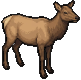
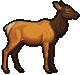
Gemini 的馬鹿母鹿 4 個姿勢接進戰術狩獵
Claude-Session: https://claude.ai/code/session_01HkqM82v9towmCBuEomSQC3

diff --git a/prototypes/hd2d_tactical/prep_gemini_prey.py b/prototypes/hd2d_tactical/prep_gemini_prey.py
@@ -7,6 +7,7 @@
 - 騾鹿公鹿 mule_deer_buck_*：同母鹿（警覺那張是正面看著你）；吃草那張是重畫的乾淨版（第一版有草與浮著的頭，remove_grass 清得掉，留著備用）
 - 騾鹿幼鹿 mule_deer_fawn_*：站寬 0.9 格
 - 北美馴鹿母鹿 caribou_cow_*：站寬 1.35 格（角細短，比公鹿小）；警覺那張頭只抬高一點（之後可以重出）
+- 馬鹿母鹿 elk_cow_*：站寬 1.6 格（取代風格測試的單張 hd_elk_cow）
 - 馬鹿幼鹿 elk_calf_*：站寬 1.15 格（「站」那張是邁步的樣子，縮小後自然）
 - 駝鹿幼鹿 moose_calf_*：站寬 1.2 格（紅褐色、腿細長、沒有角）
 - 北美馴鹿幼鹿 caribou_calf_*：站寬 0.95 格（紅褐色、沒有白點、沒有角）
@@ -34,6 +35,7 @@ ANIMALS = {
     "caribou_calf": (0.95, ["stand", "alert", "run", "graze"]),
     "moose_calf": (1.2, ["stand", "alert", "run", "graze"]),
     "elk_calf": (1.15, ["stand", "alert", "run", "graze"]),
+    "elk_cow": (1.6, ["stand", "alert", "run", "graze"]),
 }
 # 特別處理的姿勢（動物_姿勢 → 設定）：file 來源檔、crop 先裁（像素，左上右下）、flip 水平翻轉（面向左的）、
 # cells 直接指定寬幾格（同一張裡畫的大小不同、或畫布不是 1024 時，照身體長度目測）、match 顏色照站那張的色盤（prep_wolf.match_palette）

diff --git a/docs/progress.md b/docs/progress.md
@@ -7,7 +7,7 @@
 （2026-11-06）美洲獅的 Gemini 圖接進戰鬥畫面：`prototypes/hd2d_tactical/prep_cougar.py`（2×2 合在一張的切成四格；灰白棋盤格背景：灌水＋被身體包住的棋盤格空隙〔同時有亮白與淺灰〕＋只露白格的小縫〔幾乎全白、四周多是黑色輪廓線〕也挖掉；綠色棋盤格用色鍵）：站、走路兩格、伏低（灰底那張）、低頭吃（綠底那張）、撲擊（單張），寬 1.8 格（撲擊 2.1）。姿勢：預告是撲擊 → 伏低，揮掌或咬 → 撲擊的圖。伏低那張尾巴和後腳之間還留一點白，之後有新圖再換。
 （2026-11-06）灰熊改用 Gemini 第二輪的綠底 4 張（使用者：免費額度用完，直接套用、能改的直接改）：`prototypes/hd2d_tactical/prep_grizzly.py`（綠幕去背＋去綠色溢色、只留最大的一塊；粉紅鼻子換成深黑褐色〔揮掌那張的鼻子範圍另外設〕；整批乘同一組 RGB 倍率〔0.86, 0.855, 0.975〕讓毛色接近第一輪第 4 張；低頭吃沿用第一輪第 5 張、調到同樣的毛色；縮成 32／48，走路、站寬 2.3 格，揮掌 2.45 格、低頭吃 2.0 格）。戰鬥畫面的姿勢：沒動 stand、上一回合有移動 walk／walk_b 輪流、在吃 eat、預告看起來是揮掌或咬 swipe。來源圖在 `arts/hd2d_2026-11-06/`（r2_*、r1_*）。
 （2026-11-06）灰熊的 Gemini 圖先接進戰鬥畫面（使用者要求先看效果）：第 4 張走路、第 5 張低頭吃、第 9 張揮掌（去棋盤格背景、只留最大的一塊〔去掉揮動線〕、縮成 32／48：走路與吃寬 74／110、揮掌 87／130），原圖去背後在 `arts/hd2d_2026-11-06/`；`combat_hd2d.json` 的 `hd2d_poses`：在吃 eat、預告看起來是揮掌或咬 swipe（看 looks，不洩漏假動作）、其他 walk。正式版等 Gemini 照回饋整套重畫（`docs/art-request-hd2d-2026-11-06.md`）。
-（2026-11-06）Gemini 的騾鹿母鹿 4 個姿勢（站、警覺抬頭、跑、低頭吃草，`arts/gemini_prey_2026-11-06/`；`prototypes/hd2d_tactical/prep_gemini_prey.py`：綠底去背、照站那張的畫布比例換算其他姿勢、站寬 1.4 格〔和白尾鹿差不多高、壯一點〕）→ `hd_mule_deer_doe*`，戰術狩獵依狀態換圖（同白尾鹿）。騾鹿公鹿 4 個姿勢（站、正面看著你〔警覺〕、跑、低頭吃草）→ `hd_mule_deer_buck*`；吃草那張 Gemini 多畫了一顆浮著的鹿頭和一叢草：浮著的頭靠「只留最大的一塊」去掉，草用 `remove_grass`（偏綠的去掉、草葉的輪廓線去掉、形態學 opening 去掉細線、小碎塊去掉、被草蓋住的短空隙補起來；縮到遊戲大小後前腳少了蹄子看不出來）。戰術狩獵的公鹿通用 `<物種>_buck`（白尾鹿、騾鹿）。騾鹿幼鹿 4 個姿勢（站、抬頭、跑、吃草，站寬 0.9 格）→ `hd_mule_deer_fawn*`（戰術物種 `mule_deer_calf`）；公鹿吃草換成重畫的乾淨版（第一版留在 `mule_deer_buck_graze_v1_grass.jpg`，`remove_grass` 留著備用）。騾鹿三種都齊了。北美馴鹿 4 個姿勢（`hd_caribou*`；站寬 1.55 格含角）：Gemini 把「正面看著你」「跑」和一副浮著的鹿角畫在同一張 → 分別裁出來（`SPECIAL` 的 crop），吃草那張面向左、1408×768、偏紅褐 → 翻轉、照站那張調色；這幾張畫的大小不同，寬度照身體長度目測指定（警覺 1.45、跑 1.9、吃草 1.95 格）。馴鹿母鹿（站、警覺、跑、低頭吃草；`hd_caribou_cow*`，站寬 1.35 格；警覺那張頭只抬高一點，之後可以重出）：鹿群的成鹿每 3 隻有 2 隻用母鹿的圖（`hd_art.caribou.mixed`，照單位序號；只有畫面）。馴鹿幼鹿 4 個姿勢（站、回頭看、跑、吃草；`hd_caribou_calf*`，站寬 0.95 格，戰術物種 `caribou_calf`）。馬鹿幼鹿 4 個姿勢（`hd_elk_calf*`，1.15 格；取代原本母鹿縮小的版本）。駝鹿幼鹿 4 個姿勢（站、警覺、跑、吃草；`hd_moose_calf*`，1.2 格）。出圖流程（2026-11-07 使用者回饋）：先由 Claude Code 寫好外觀與姿勢的描述，使用者把標題和描述一起轉給 Gemini、一次一張，準確很多。
+（2026-11-06）Gemini 的騾鹿母鹿 4 個姿勢（站、警覺抬頭、跑、低頭吃草，`arts/gemini_prey_2026-11-06/`；`prototypes/hd2d_tactical/prep_gemini_prey.py`：綠底去背、照站那張的畫布比例換算其他姿勢、站寬 1.4 格〔和白尾鹿差不多高、壯一點〕）→ `hd_mule_deer_doe*`，戰術狩獵依狀態換圖（同白尾鹿）。騾鹿公鹿 4 個姿勢（站、正面看著你〔警覺〕、跑、低頭吃草）→ `hd_mule_deer_buck*`；吃草那張 Gemini 多畫了一顆浮著的鹿頭和一叢草：浮著的頭靠「只留最大的一塊」去掉，草用 `remove_grass`（偏綠的去掉、草葉的輪廓線去掉、形態學 opening 去掉細線、小碎塊去掉、被草蓋住的短空隙補起來；縮到遊戲大小後前腳少了蹄子看不出來）。戰術狩獵的公鹿通用 `<物種>_buck`（白尾鹿、騾鹿）。騾鹿幼鹿 4 個姿勢（站、抬頭、跑、吃草，站寬 0.9 格）→ `hd_mule_deer_fawn*`（戰術物種 `mule_deer_calf`）；公鹿吃草換成重畫的乾淨版（第一版留在 `mule_deer_buck_graze_v1_grass.jpg`，`remove_grass` 留著備用）。騾鹿三種都齊了。北美馴鹿 4 個姿勢（`hd_caribou*`；站寬 1.55 格含角）：Gemini 把「正面看著你」「跑」和一副浮著的鹿角畫在同一張 → 分別裁出來（`SPECIAL` 的 crop），吃草那張面向左、1408×768、偏紅褐 → 翻轉、照站那張調色；這幾張畫的大小不同，寬度照身體長度目測指定（警覺 1.45、跑 1.9、吃草 1.95 格）。馴鹿母鹿（站、警覺、跑、低頭吃草；`hd_caribou_cow*`，站寬 1.35 格；警覺那張頭只抬高一點，之後可以重出）：鹿群的成鹿每 3 隻有 2 隻用母鹿的圖（`hd_art.caribou.mixed`，照單位序號；只有畫面）。馴鹿幼鹿 4 個姿勢（站、回頭看、跑、吃草；`hd_caribou_calf*`，站寬 0.95 格，戰術物種 `caribou_calf`）。馬鹿母鹿 4 個姿勢（`hd_elk_cow*`，1.6 格；取代風格測試的單張，第一次出的有白點像幼鹿，開新對話加「成年、沒有白點」重出）。馬鹿幼鹿 4 個姿勢（`hd_elk_calf*`，1.15 格；取代原本母鹿縮小的版本）。駝鹿幼鹿 4 個姿勢（站、警覺、跑、吃草；`hd_moose_calf*`，1.2 格）。出圖流程（2026-11-07 使用者回饋）：先由 Claude Code 寫好外觀與姿勢的描述，使用者把標題和描述一起轉給 Gemini、一次一張，準確很多。
 （2026-11-06）PixelLab 出圖（使用者試用，`arts/pixellab_2026-11-06/`，每張 2×2 四個版本；`prototypes/hd2d_tactical/prep_pixellab.py`）：灰狼走路的另一步取左上（寬高比最接近第二輪的走路，照高度對齊）→ `hdwolf_walk_b`，移動時和走路輪流（原本和站輪流）；馬鹿殘骸左上 → `hd_carcass_elk`（1.6 格）、右下縮小 → `hd_carcass_deer`（1.2 格，白尾鹿、騾鹿共用），`combat_hd2d.json` 的 `carcass.hd`。白尾鹿：雄鹿（4 個版本取右上）、母鹿 4 個姿勢（站、走、低頭吃草、警覺回頭）→ `hd_deer_*`；PixelLab 畫得腿長脖子高、顏色鮮豔，縮成 1.1／1.2 格（約馬鹿的 0.85 高）、飽和度 × 0.8。戰術狩獵依每隻鹿的狀態換圖（`hunt_hd2d.json` 的 `hd_art` 加 unaware／suspicious／stand／flee）：沒發現你低頭吃草、警覺或站定抬頭回看、逃跑走路；主遊戲的白尾鹿雄鹿用雄鹿的圖（`ctx.life_stage` → `game_mods.life_stage`，只給畫面用）。
 （2026-11-06）戰術狩獵的獵物補上 HD-2D 圖（使用者：沒有出圖額度，看舊素材能不能補）：沿用 2026-10-13 風格測試留下的高解析度原圖（`prototypes/hd2d_tactical/prep_prey.py` → `assets/hd_*`）：馬鹿母鹿、公鹿（`art_scene_test` 的像素風）、小馬鹿（母鹿縮小到 1.1 格）、雪兔夏毛、冬毛與幼兔（`art_illustrated_test` 的插畫風；野兔暫時共用夏毛）。`hunt_hd2d.json` 的 `hd_art`（物種鍵 → 圖名、冬季的圖），`HuntHD2D._art_for` 有就用。其他獵物（白尾鹿、騾鹿、馴鹿、野牛……）和殘骸沒有可用的舊原圖，照舊用佔位圖。
 （2026-11-06）灰狼的 Gemini 圖接進戰鬥與戰術狩獵畫面（使用者提供兩輪共 12 張，`arts/hd2d_2026-11-06/wolf_r1_*`、`wolf_r2_*`；`prototypes/hd2d_tactical/prep_wolf.py` → `assets/hdwolf_*`）：第二輪（淺灰、黑框粗）當基準：走路、示弱（耳朵壓平、尾巴下垂；使用者說明第 2 張是示弱）、倒地、示威、潛行、撤退（尾巴夾住）、帶傷、準備撲；第一輪補站、撲咬、叼肉（2026-11-06 改成照亮度的排名對應到第二輪走路那張的顏色、肉保留原色；原本整張乘倍率會偏褐藍、肉偏粉）。縮小後補 1 像素深色外框（原圖細黑框縮小會不見），走路寬 1.35 格。`combat_hd2d.json` 的 `wolf_poses`、`CombatHD2D._wolf_pose`：叼肉 carry、上一回合咬或壓制 lunge、示威 threaten、對手預告咬或壓制 ready、過了重傷線 hurt、潛行 stalk、移動 walk／stand 輪流；退出的狼留在原地一回合（示弱 submit、被打倒 down、撤退或逃走 retreat；熊、美洲獅走了照舊不畫）。你、伴侶、同伴、對手的狼都用同一套、各自調顏色。戰術狩獵的狼也換成新的站姿。原本的 `wolf_stand` 等留給 HD-2D 測試場景。

diff --git a/docs/art-request-hd2d-2026-11-06.md b/docs/art-request-hd2d-2026-11-06.md
@@ -7,7 +7,7 @@
 
 已經接進遊戲的：
 - 戰鬥：灰熊（站、走路 2 格、揮掌、低頭吃）、美洲獅（站、走路 2 格、伏低、低頭吃、撲擊）、黑熊（站、走路、揮掌、衝刺、低頭吃、站起來）、灰狼 12 個姿勢（站、走路 2 格、潛行、示威、準備撲、撲咬、叼肉、帶傷、示弱、撤退、倒地）、馬鹿與鹿的殘骸。伴侶、黑狼、苔原狼、鄰群的狼都用灰狼調顏色。
-- 戰術狩獵：白尾鹿母鹿（站、走、低頭吃草、警覺回頭）、白尾鹿雄鹿、騾鹿母鹿／公鹿／幼鹿（各 4 個姿勢）、北美馴鹿公鹿／母鹿／幼鹿（各 4 個姿勢）、駝鹿幼鹿、馬鹿幼鹿（各 4 個姿勢）、馬鹿母鹿與公鹿、雪兔（夏毛、冬毛）。
+- 戰術狩獵：白尾鹿母鹿（站、走、低頭吃草、警覺回頭）、白尾鹿雄鹿、騾鹿母鹿／公鹿／幼鹿（各 4 個姿勢）、北美馴鹿公鹿／母鹿／幼鹿（各 4 個姿勢）、駝鹿幼鹿、馬鹿母鹿、馬鹿幼鹿（各 4 個姿勢）、馬鹿母鹿與公鹿、雪兔（夏毛、冬毛）。
 
 ### 一、明天用 PixelLab 補（白尾鹿）
 
